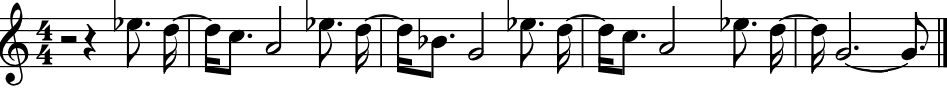
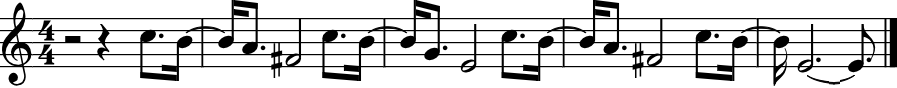
motiv 25052026

diff --git a/music.js b/music.js
@@ -65,6 +65,17 @@ document.addEventListener("DOMContentLoaded", function () {
                 }
             });
         }
+
+        const clearNextBtn = document.getElementById('clearNextBtn');
+        if (clearNextBtn) {
+            clearNextBtn.addEventListener('click', () => {
+                localStorage.removeItem('next');
+                const announcer = document.getElementById('next-announcer');
+                if (announcer) {
+                    announcer.remove();
+                }
+            });
+        }
 });
 
 function reorderSongList(band) {
@@ -170,6 +181,7 @@ function reorderSongList(band) {
     //ArtistSongToClipboard();
     //ArtistSongToConsoleArray();
     ArtistSongToConsoleRows();
+    transformAccordionHeaders();
 }
 
 function fillSongHeader(band) {
@@ -1035,6 +1047,7 @@ async function buildAllBandsList() {
 
     // Добавляем в контейнер
     allAccordions.forEach(acc => allContainer.appendChild(acc));
+    transformAccordionHeaders();
     // ✅ Формируем CSV уже ПОСЛЕ сортировки
     const csvRows = [["Artist", "Song"]];
     allAccordions.forEach(acc => {
@@ -1515,4 +1528,103 @@ function addEmptySetlistAttribute() {
         acc.setAttribute("setlistposition", "");
         acc.setAttribute("setlistblock", "");
     });
+}
+
+// --- NEXT button / announcer functionality -------------------------------
+document.addEventListener('DOMContentLoaded', () => {
+    transformAccordionHeaders();
+    bindNextButtonEvents();
+    restoreNextFromStorage();
+});
+
+function transformAccordionHeaders() {
+    document.querySelectorAll('.accordion').forEach(accordion => {
+        // already transformed?
+        if (accordion.querySelector(':scope > .header-row')) return;
+
+        const oldBtn = accordion.querySelector(':scope > button.toggle-button');
+        if (!oldBtn) return;
+
+        const headerRow = document.createElement('div');
+        headerRow.className = 'header-row';
+
+        const toggleClone = oldBtn.cloneNode(true);
+        toggleClone.type = oldBtn.type || 'button';
+
+        const nextBtn = document.createElement('button');
+        nextBtn.className = 'next-button';
+        nextBtn.type = 'button';
+        nextBtn.innerHTML = '<span class="next-icon">➜</span> <span class="sr">Next</span>';
+
+        accordion.replaceChild(headerRow, oldBtn);
+        headerRow.appendChild(toggleClone);
+        headerRow.appendChild(nextBtn);
+    });
+}
+
+function bindNextButtonEvents() {
+    document.body.addEventListener('click', function (e) {
+        const nb = e.target.closest('.next-button');
+        if (!nb) return;
+        e.stopPropagation();
+        const accordion = nb.closest('.accordion');
+        if (!accordion) return;
+        const hash = accordion.getAttribute('hash');
+        if (!hash) return;
+
+        localStorage.setItem('next', hash);
+        showNextAnnouncer(hash);
+    });
+}
+
+function showNextAnnouncer(hash) {
+    const acc = document.querySelector(`.accordion[hash="${hash}"]`);
+    if (!acc) return;
+    const artist = acc.getAttribute('artist') || '';
+    const song = acc.getAttribute('song') || '';
+
+    let announcer = document.getElementById('next-announcer');
+    if (!announcer) {
+        announcer = document.createElement('div');
+        announcer.id = 'next-announcer';
+        announcer.className = 'next-announcer';
+        document.body.appendChild(announcer);
+
+        announcer.addEventListener('click', function () {
+            const cur = localStorage.getItem('next');
+            if (!cur) return;
+            const target = document.querySelector(`.accordion[hash="${cur}"]`);
+            if (target) {
+                const btn = target.querySelector('.toggle-button');
+                if (btn) btn.click();
+            }
+            localStorage.removeItem('next');
+            announcer.remove();
+        });
+    }
+
+    announcer.textContent = `Next ${artist} ${song}`;
+    announcer.style.display = 'block';
+
+    const activeAccordion = document.querySelector('.accordion.active');
+    if (activeAccordion) {
+        scrollToAccordionButton(activeAccordion);
+    }
+}
+
+function scrollToAccordionButton(accordion) {
+    if (!accordion) return;
+    const button = accordion.querySelector('.toggle-button');
+    if (!button) return;
+
+    const yOffset = 0;
+    setTimeout(() => {
+        const y = button.getBoundingClientRect().top + window.pageYOffset + yOffset;
+        window.scrollTo({ top: y, behavior: 'smooth' });
+    }, 200);
+}
+
+function restoreNextFromStorage() {
+    const hash = localStorage.getItem('next');
+    if (hash) showNextAnnouncer(hash);
 }

diff --git a/music.css b/music.css
@@ -41,7 +41,8 @@ yt {
    2. HEADER / PAGE CHROME
    -------------------------------------------------------------------------- */
 #themeToggle,
-#clearDataBtn {
+#clearDataBtn,
+#clearNextBtn {
   font-size: 1.25em;
   padding: 4px 10px;
   border: 1px solid var(--button-border);
@@ -53,7 +54,8 @@ yt {
 }
 
 #themeToggle:hover,
-#clearDataBtn:hover {
+#clearDataBtn:hover,
+#clearNextBtn:hover {
   opacity: 0.9;
 }
 
@@ -76,7 +78,7 @@ yt {
 
 .accordion .toggle-button {
   display: flex;
-  width: 100%;
+  width: auto;
   cursor: pointer;
   border: 1px solid;
   text-align: left;
@@ -84,6 +86,55 @@ yt {
   background: var(--button-bg);
   border-color: var(--button-border);
   color: var(--fontcolor);
+}
+
+/* Header row: primary toggle + small next button */
+.accordion .header-row {
+  display: flex;
+  gap: 2px;
+  align-items: stretch;
+}
+
+.accordion .header-row .toggle-button,
+.accordion .header-row .next-button {
+  align-items: center;
+}
+
+.accordion .header-row .toggle-button {
+  flex: 0 0 85%;
+  width: auto;
+}
+
+.accordion .header-row .next-button {
+  flex: 1 0 15%;
+  display: inline-flex;
+  align-items: center;
+  justify-content: center;
+  cursor: pointer;
+  border: 1px solid var(--button-border);
+  background: color-mix(in srgb, var(--button-bg) 85%, white 15%);
+  color: var(--fontcolor);
+  padding: 8px;
+}
+
+.accordion .header-row .next-button .next-icon {
+  font-size: 1.0em;
+}
+
+/* Top announcer for Next */
+.next-announcer {
+  position: fixed;
+  left: 50%;
+  transform: translateX(-50%);
+  top: 12px;
+  background: rgba(135,206,250,0.95); /* light blue */
+  color: #03314b;
+  padding: 8px 16px;
+  border-radius: 6px;
+  box-shadow: 0 2px 8px rgba(0,0,0,0.15);
+  z-index: 9999;
+  cursor: pointer;
+  opacity: 0.98;
 }
 
 .accordion .toggle-button > mp3,

diff --git a/index.html b/index.html
@@ -31,6 +31,7 @@
             <td id="cell_artist_select"></td>
             <td id="cell_theme_toggle" style="text-align: right; vertical-align: middle;">
                 <button type="button" id="clearDataBtn" title="Очистить все локальные данные и перезагрузить (потребуется новое разрешение MIDI)" style="margin-right: 10px;">&#x21bb;</button>
+                <button type="button" id="clearNextBtn" title="Очистить сохранённый Next" style="margin-right: 10px;">Next <span class="block-remove-btn"></span></button>
                 <button type="button" id="themeToggle" title="Переключить светлую/тёмную тему" aria-label="Переключить тему">&#9789;</button>
             </td>
         </tr>